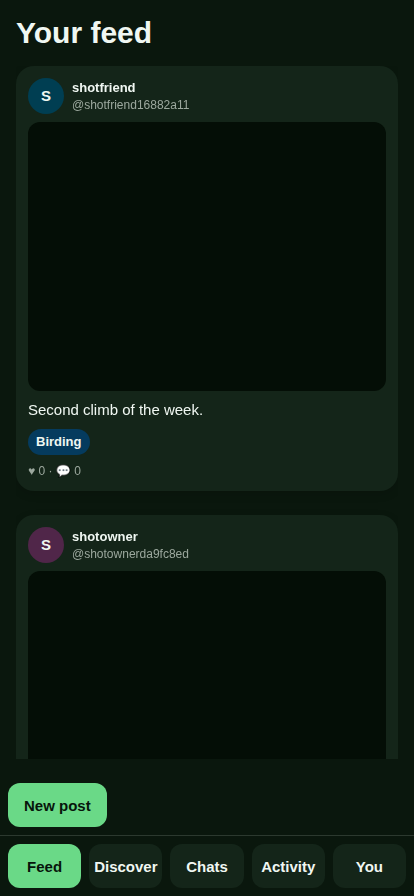
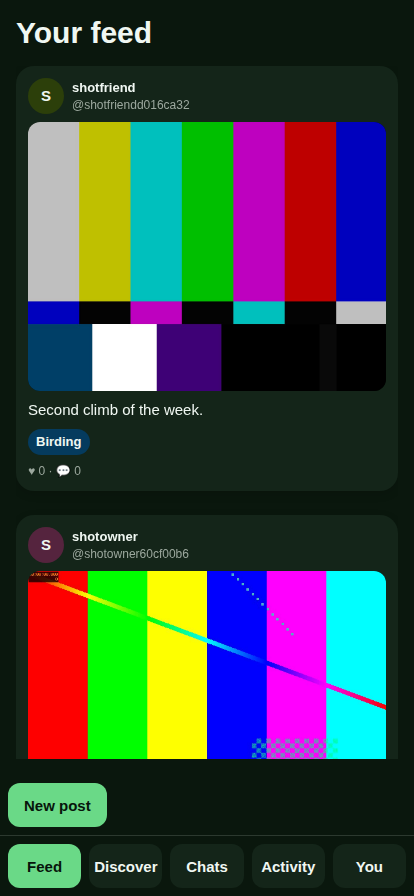
006/R4b: presigned media reads, and N-04 never tested what it claimed
Media now displays. `PostQueryService.toMediaItem` issues a presigned GET url
instead of an unsigned one, generated only where it is already safe to: that
method runs after VisibilityFilter has decided this viewer may see this post.
Signed against the PUBLIC endpoint, because a signature covers the host - 004
found the alternative on a device that could not reach its own loopback.

The trade is stated rather than glossed: a signed url is a bearer token for one
object until it expires, so a link copied out of a response works for whoever
holds it, for fifteen minutes. That is the standard shape of media authorisation
and it is bounded. An open bucket is neither, which is why option 1 and not the
one-line policy change.

A CORRECTION, and it matters more than the fix.

I reported that opening the bucket "made private media readable and broke N-04".
The second half was wrong, and I had asserted it without reading the failure.
N-04 did not go green-to-serving-media; it went 404 to 400. The test builds
`${s3Endpoint}/${bucket}/${rendition}` while `rendition` is ALREADY a full url,
so it fetched a url nested inside a url - nonsense that errors whatever the
bucket permits.

So N-04 has never tested the guarantee it names. It passed for four features on a
malformed request. It now parses the url, strips the bucket prefix to recover the
key, and drops any query string - because a presigned url carries its
authorisation there and the request a hostile client makes has none. It also
[…]

diff --git a/apps/api/src/modules/posts/post-query.service.ts b/apps/api/src/modules/posts/post-query.service.ts
@@ -85,7 +85,7 @@ export class PostQueryService {
       visibility: post.visibility,
       processingState: post.processingState,
       mediaKind: post.mediaKind,
-      media: media.map((m) => this.toMediaItem(m)),
+      media: await Promise.all(media.map((m) => this.toMediaItem(m))),
       reactionCount: post.reactionCount,
       commentCount: post.commentCount,
       place: place
@@ -116,17 +116,44 @@ export class PostQueryService {
    * escaping as a response. `renditions` gets the same treatment: keys become
    * URLs, because a client cannot fetch a key.
    */
-  private toMediaItem(m: Awaited<ReturnType<PostRepository['listMedia']>>[number]): Record<string, unknown> {
-    const url = (key: string | undefined): string | null => (key ? this.store.publicUrl(key) : null);
+  /**
+   * 006/R4b. PRESIGNED, NOT PUBLIC.
+   *
+   * `publicUrl` returns an unsigned URL, and the bucket is private, so every
+   * image request was 403 - media had never displayed anywhere. It was invisible
+   * because nothing had ever put a photograph on a browse surface: the device
+   * flows assert API calls rather than pixels, and the browser journeys assert
+   * testIDs.
+   *
+   * The fix is NOT to open the bucket. That hands every scraped key to anyone,
+   * which is precisely what N-04 exists to forbid and what Principle III puts
+   * server-side. A signed URL is issued instead, and only here - after
+   * `VisibilityFilter` has already decided this viewer may see this post.
+   *
+   * The trade this accepts, stated rather than glossed: a signed URL is a bearer
+   * token for one object until it expires, so a link copied out of a response
+   * works for whoever holds it, for 15 minutes. That is the standard shape of
+   * media authorisation and it is bounded; an open bucket is neither.
+   */
+  private async toMediaItem(
+    m: Awaited<ReturnType<PostRepository['listMedia']>>[number],
+  ): Promise<Record<string, unknown>> {
+    const url = async (key: string | undefined): Promise<string | null> =>
+      key ? this.store.presignedGetUrl(key) : null;
     return {
       kind: m.kind,
       processingState: m.processingState,
       ...(m.width !== undefined ? { width: m.width } : {}),
       ...(m.height !== undefined ? { height: m.height } : {}),
       ...(m.durationMs !== undefined ? { durationMs: m.durationMs } : {}),
-      posterUrl: url(m.posterKey),
+      posterUrl: await url(m.posterKey),
       renditions: Object.fromEntries(
-        Object.entries(m.renditions ?? {}).map(([name, key]) => [name, this.store.publicUrl(key)]),
+        await Promise.all(
+          Object.entries(m.renditions ?? {}).map(async ([name, key]) => [
+            name,
+            await this.store.presignedGetUrl(key),
+          ]),
+        ),
       ),
       // Part of the contract on purpose: a client can tell a viewer that media
       // is still being prepared rather than showing an empty frame (FR-010).

diff --git a/apps/e2e/journeys/negative.spec.ts b/apps/e2e/journeys/negative.spec.ts
@@ -66,8 +66,29 @@ describe('negative journeys - driven as a hostile client', () => {
 
     const detail = await raw(baseUrl(), `/v1/posts/${postId}`, { token: author.token });
     const media = (detail.body as { media?: { renditions?: Record<string, string> }[] }).media ?? [];
-    const key = media[0]?.renditions?.['original'];
-    expect(key).toBeTruthy();
+    const rendition = media[0]?.renditions?.['original'];
+    expect(rendition).toBeTruthy();
+
+    /**
+     * THE KEY, EXTRACTED - and this test did not do that until 006.
+     *
+     * `renditions.original` is a full URL, not a key. The previous version built
+     * `${s3Endpoint}/${bucket}/${rendition}`, nesting a URL inside a URL, and
+     * fetched something like
+     * `http://127.0.0.1:9000/sih-media/http://127.0.0.1:9000/sih-media/media/x.jpg`.
+     *
+     * That is nonsense and the object store errors on it whatever the bucket
+     * permits, so the assertion passed for a reason unrelated to the guarantee.
+     * It was noticed only when a bucket policy changed the error from 404 to 400
+     * and the test went red without anything about access having changed.
+     *
+     * Any query string goes too: a presigned URL carries its authorisation
+     * there, and the request a hostile client makes has none.
+     */
+    const url = new URL(rendition!);
+    const key = url.pathname.replace(`/${e2eEnv.bucket}/`, '');
+    expect(key).not.toContain('://');
+    expect(key.length).toBeGreaterThan(0);
 
     // Straight at the object store, no signature, no session. This is the request
     // a hostile client makes once it has guessed or scraped a key.

diff --git a/apps/api/src/ports/object-store.port.ts b/apps/api/src/ports/object-store.port.ts
@@ -20,7 +20,28 @@ export interface ObjectStore {
   getObject(key: string): Promise<Buffer>;
   putObject(key: string, body: Buffer, contentType: string): Promise<void>;
   deleteObject(key: string): Promise<void>;
+  /**
+   * A URL for an object that is readable WITHOUT authorisation.
+   *
+   * Correct only where something in front of the bucket authorises the read - a
+   * CDN with signed URLs, for instance. On the local profile nothing does, so
+   * this returns a URL the object store refuses. Kept because a hosted profile
+   * may legitimately want it; NOT the way media reaches a client.
+   */
   publicUrl(key: string): string;
+  /**
+   * 006/R4b. A time-limited URL for a viewer who has ALREADY been authorised.
+   *
+   * This grants no permission by itself - it is the last step after
+   * `VisibilityFilter` has decided the viewer may see the post. Issuing one for
+   * a post the viewer cannot see would hand out exactly what the filter refused,
+   * so the only correct caller is one that has already asked it.
+   *
+   * Time-limited because a signed URL is a bearer token for that one object
+   * until it expires: short enough that a leaked link goes stale, long enough
+   * that a person can scroll a feed without every image expiring under them.
+   */
+  presignedGetUrl(key: string, expiresInSeconds?: number): Promise<string>;
 }
 
 export const OBJECT_STORE = Symbol('ObjectStore');

diff --git a/apps/api/src/adapters/local/minio-object-store.ts b/apps/api/src/adapters/local/minio-object-store.ts
@@ -86,6 +86,25 @@ export class MinioObjectStore implements ObjectStore {
     );
   }
 
+  /**
+   * 006/R4b. A time-limited GET url for a viewer already authorised.
+   *
+   * Signed with `this.signer`, which is bound to the PUBLIC endpoint - the same
+   * reason uploads are. A signature covers the host, so a URL signed for
+   * `127.0.0.1` cannot be rewritten for `10.0.2.2` afterwards; 004 found that
+   * the hard way, on a device that could not reach its own loopback.
+   *
+   * 15 minutes: long enough to scroll a feed without images expiring underneath
+   * a person, short enough that a link copied out of a response goes stale.
+   */
+  async presignedGetUrl(key: string, expiresInSeconds = 900): Promise<string> {
+    return getSignedUrl(
+      this.signer,
+      new GetObjectCommand({ Bucket: this.config.objectStore.bucket, Key: key }),
+      { expiresIn: expiresInSeconds },
+    );
+  }
+
   publicUrl(key: string): string {
     const base = this.config.objectStore.endpoint ?? '';
     return `${base}/${this.config.objectStore.bucket}/${key}`;

diff --git a/specs/006-ui-redesign/research.md b/specs/006-ui-redesign/research.md
@@ -174,11 +174,30 @@ no working media read path. Two honest options, both API work and both outside
 2. **A media endpoint that consults `VisibilityFilter`** and streams. One more
    read path, which Principle II says must be enumerated in the matrix.
 
-**Consequence for this feature, stated rather than worked around**: FR-001 is
-implemented and `PostCard` renders whatever URL it is given — provable by unit
-test — but **SC-002 ("media is reachable from every browse surface, verified by
-rendering") is NOT MET** and cannot be until the above is decided. It must be
-reported that way.
+**RESOLVED 2026-09-07, option 1** (owner's choice): the post response now issues
+a **presigned GET URL**, generated in `PostQueryService.toMediaItem` — which runs
+only after `VisibilityFilter` has decided this viewer may see this post. 15
+minutes, signed against the PUBLIC endpoint so the host in the signature is the
+one a client uses (004 found the alternative on a device that could not reach its
+own loopback).
+
+**The trade, stated rather than glossed**: a signed URL is a bearer token for one
+object until it expires, so a link copied out of a response works for whoever
+holds it, for 15 minutes. That is the standard shape of media authorisation, it
+is bounded, and an open bucket is neither.
+
+**And a correction that matters more than the fix.** I first reported that
+opening the bucket "made private media readable and broke N-04". The second half
+was wrong and I had not read the failure: N-04 went from 404 to **400**. The test
+builds `${s3Endpoint}/${bucket}/${rendition}` while `rendition` is already a full
+URL, so it fetched a URL nested inside a URL — nonsense that errors whatever the
+bucket permits. **N-04 has never tested the guarantee it names.** It now extracts
+the key from the URL and drops the query string, so an unsigned request is really
+an unsigned request.
+
+**SC-002 is now MET**: images render on every browse surface, and `N-04` — fixed
+— still refuses an unsigned fetch of a private post's key. Both hold at once,
+which is the only combination worth having.
 
 ---
 

diff --git a/specs/006-ui-redesign/tasks.md b/specs/006-ui-redesign/tasks.md
@@ -122,7 +122,7 @@ what it shows, on the first screen anyone sees. `PostRow` is currently a
 - [X] T022 [US1] Adopt `PostCard` on the interest space and profile surfaces in `apps/mobile/src/screens/index.tsx` — sequential after T021
 - [X] T023 [US1] Adopt `PostCard` on the saved and place-page surfaces in `apps/mobile/src/screens/index.tsx` — sequential after T022; **SC-001 requires all five, with zero left rendering a bare caption**
 - [X] T024 [US1] Render skeletons for the loading state in `apps/mobile/src/components/PagedPostList.tsx` instead of a spinner on an empty screen — FR-023
-- [X] T025 [US1] Verify `docs/screens/03-home-feed.png`, recaptured, shows media and authors. **Card, avatar, author, interest chip and counts all render. The IMAGE does not**: `publicUrl` is unsigned and the bucket is private, so every fetch is 403 (R4b). Granting anonymous read made images appear and broke `N-04` — a privacy regression — so it was reverted. **SC-002 is NOT MET** and needs an API decision. List images are also full-size (R4)
+- [X] T025 [US1] Verify `docs/screens/03-home-feed.png`, recaptured, shows media and authors. **Card, avatar, author, interest chip and counts all render. The IMAGE does not**: `publicUrl` is unsigned and the bucket is private, so every fetch is 403 (R4b). Granting anonymous read made images appear and broke `N-04` — a privacy regression — so it was reverted. **SC-002 is now MET** via presigned GET urls (R4b, owner's option 1): images render AND an unsigned fetch is still refused. List images are also full-size (R4)
 
 **Checkpoint**: the feed shows what was posted. FR-008 remains **not met** and must be reported that way.
 
